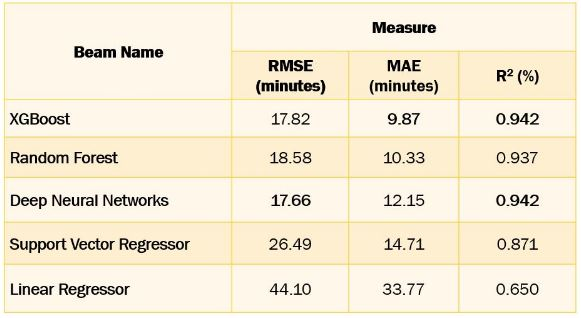
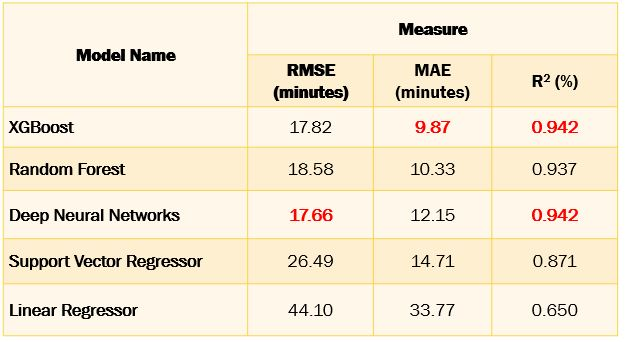
added table

diff --git a/_pages/data_portfolio.md b/_pages/data_portfolio.md
@@ -20,22 +20,11 @@ Existing methodologies for determining the fire performance of FRP-strengthened 
 * Conducted feature engineering and exploratory data analysis to prepare the dataset for optimal utilization by machine learning models.
 * Utilized **Scikit-learn** to evaluate candidate machine learning models, including Linear Regression with ElasticNet, Support Vector Regressor, Random Forest, and XGBoost, using diverse performance metrics (R^2, RMSE, MAE) for assessment.
 * Employed **PyTorch** to design and train a five-layer Deep Neural Network with ReLU activation function and Adam optimizer, following a systematic evaluation of architecture over multiple iterations.
-* Performed hyperparameter tuning using random search (RandomizedSearchCV) with five-fold cross validation, pushing the predictive power of the models. 
+* Performed hyperparameter tuning using random search (RandomizedSearchCV) with five-fold cross validation, and achieved an R^2 of 94% and around 10% error relative to the mean for the best performing model. 
 * Determined feature importance across all models using **SHAP** (SHapley Additive exPlanations) to provide valuable insights into the most important features driving the predictive performance of the models.
 
-
+<figcaption style="text-align:center; font-size: smaller;">Table. Performance of Machine Learning Models after Hyperparameter Tuning</figcaption>
 ![ml_models](./images/ml_models.JPG){: .align-center height="400px"}
-<figcaption style="text-align:center; font-size: smaller;">Performance of Machine Learning Models after Hyperparameter Tuning</figcaption>
-
-### Table 1
-
-| Header1 | Header2 | Header3 | Header1 |
-|:--------|:-------:|--------:|:--------|
-| cell1   | cell2   | cell3   | cell3   |
-| cell4   | cell5   | cell6   | cell3   |
-| cell3   | cell3   | cell3   | cell3   |
-| cell1   | cell2   | cell3   | cell3   |
-| cell4   | cell5   | cell6   | cell3   |
 
 ![xgboost_results](./images/xgboost_results.JPG)
 <figcaption style="text-align:center; font-size: smaller;">XGBoost Model Prediction Errors and Residual Plots</figcaption>
